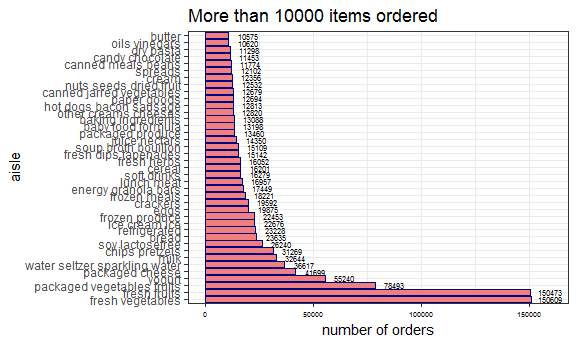
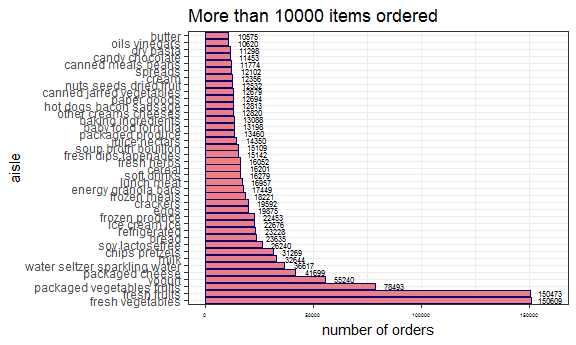
made a boxplot of snowfall by year and month

diff --git a/p8105_hw3_hh2767.md b/p8105_hw3_hh2767.md
@@ -144,7 +144,13 @@ ordre_less3k = ggplot(filter(count, n < 3000), aes(x = aisle, y = n, fill = aisl
 <img src="p8105_hw3_hh2767_files/figure-markdown_github/unnamed-chunk-8-1.png" width="90%" style="display: block; margin: auto;" />
 
 ``` r
-ggplot(filter(count, n >= 10000), aes(x = aisle, y = n)) + geom_col(fill = "lightcoral", color = "navy") +  theme(legend.position = "bottom") + scale_y_continuous( limits = c(0, 160000)) + labs(title = "More than 10000 items ordered", y = "number of orders") + coord_flip() + theme(axis.text.x = element_text(face = "plain", color = "black", size = 5))  + geom_text(aes(label = n, y = n + 9000), nudge_x = 0,
+ggplot(filter(count, n >= 10000), aes(x = aisle, y = n)) + 
+  geom_col(fill = "lightcoral", color = "navy") +  
+  theme(legend.position = "bottom") + 
+  scale_y_continuous( limits = c(0, 160000)) + 
+  labs(title = "More than 10000 items ordered", y = "number of orders") +
+  coord_flip() + theme(axis.text.x = element_text(face = "plain", color = "black", size = 4))  + 
+  geom_text(aes(label = n, y = n + 9000), nudge_x = 0,
 nudge_y = 0, size = 2) 
 ```
 
@@ -262,7 +268,7 @@ observations for temperature, precipitation, and snowfall
   summarize(mean_tmax = mean(tmax_c)) %>% 
   ggplot(aes(x = year, y = mean_tmax)) +
   geom_boxplot(fill = "brown1")  + 
-  facet_grid(.~month) + theme(legend.position = "botomn") + theme(axis.text.x = element_text(face = "plain", color = "black", size = 6.5, angle = 60))
+  facet_grid(.~month) + theme(legend.position = "bottom") + theme(axis.text.x = element_text(face = "plain", color = "black", size = 6.5, angle = 60))
 ```
 
 <img src="p8105_hw3_hh2767_files/figure-markdown_github/unnamed-chunk-14-1.png" width="90%" /> The plot above is a two-panel plot. The left one shows the distribution of mean max temperature of January observed at each station, while the right one shows the distribution of mean max temperature of July observed at each station. The result shows that the mean of tempature is much lower in January than in July, and variance of the mean in January is greater than that in July. In addition, the tempuratures remain relatively stable over the years. There are some outliers almost each year, so I made another plot to find out wether those outlying data are observed from the same station or not.
@@ -287,7 +293,23 @@ In the picture above, mean max temperature of each month observed at different s
 ``` r
 ny_noaa %>% 
   filter(!is.na(tmax_c) & !is.na(tmin_c)) %>% 
-  ggplot(aes(x = tmax_c, y = tmin_c)) + geom_hex() + labs(title = "Max temperature VS Min temperature", x = "maximum  tempeture (°C)", y = "Minimum tempeture (°C)")
+  ggplot(aes(x = tmax_c, y = tmin_c)) + geom_hex() + labs(title = "Max temperature VS Min temperature", x = "maximum  tempeture (°C)", y = "Minimum tempeture (°C)") 
 ```
 
 <img src="p8105_hw3_hh2767_files/figure-markdown_github/unnamed-chunk-16-1.png" width="90%" />
+
+``` r
+snow_data = ny_noaa %>% 
+  select(-prcp_mm, -snwd_mm, -tmax_c, -tmin_c) %>% 
+  filter(!is.na(snow_mm)) %>% 
+  filter(snow_mm > 0 & snow_mm < 100)
+
+  snow_before_1996 = ggplot(filter(snow_data, year <= 1995), aes(x = year, y = snow_mm, fill = month)) +
+    geom_boxplot() + theme(legend.position = "null")
+  
+  snow_after_1996 = ggplot(filter(snow_data, year > 1995), aes(x = year, y = snow_mm, fill = month)) +
+    geom_boxplot() + theme(legend.position = "bottom")
+  snow_before_1996 / snow_after_1996 
+```
+
+<img src="p8105_hw3_hh2767_files/figure-markdown_github/unnamed-chunk-16-2.png" width="90%" />
